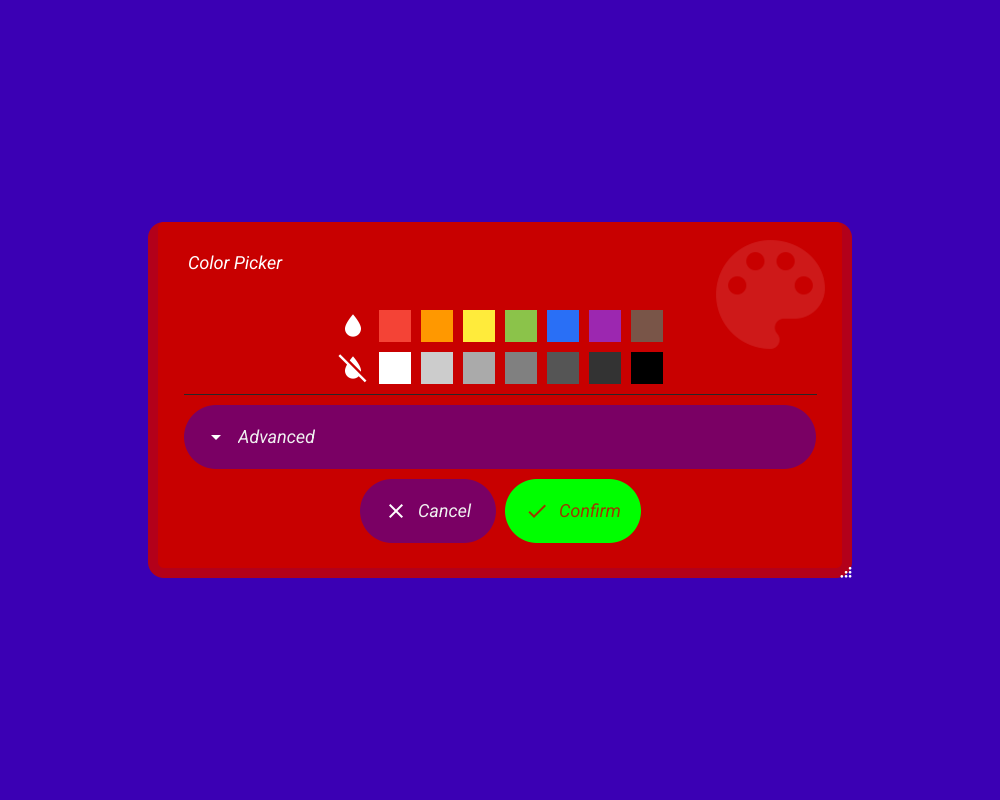
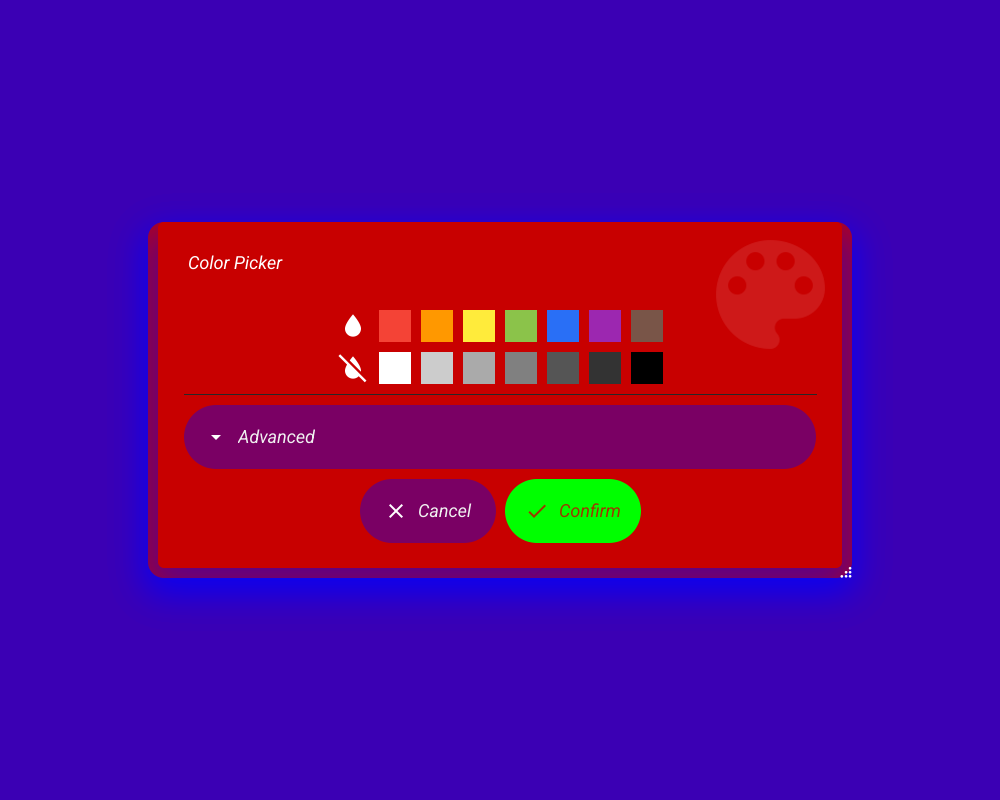
software painter: draw canvas.BoxShadow (#876)
The software painter had no case for BoxShadow, so every headless
capture, test image and --render output dropped it. An elevated Card
whose surface matched the page had no visible edge. Player's demo at
800x600 was 478,717 of 480,000 pixels page colour.

drawBoxShadow follows the GPU painters' geometry. It pads the shadow's
rounded rect by twice the blur radius, draws its coverage with the
existing rectangle code, and blurs it by a Gaussian of
painter.BlurSigma(BlurRadius). The GPU blur's 9-tap kernel approximates
that Gaussian; this computes it exactly (separable, cut at 3 sigma). The
result is drawn in the shadow colour. No blur draws nothing, as on the
GPU.

TestPainter_paintBoxShadow pins it to the closed form: across a straight
edge it is the normal CDF of distance over sigma, within 3/255 at every
pixel. With the case removed, the drawing tests fail.

The images of tests that show a shadow change to include it: 18 desktop
and 11 mobile (dialogs, menus, pop-ups, select, the Shadow widget). Every
changed pixel lies within the shadowed widget's box. The default theme
changes by at most 25/255, the test 'ugly' theme's coloured shadow by up
to 112.

BoxShadow's doc said the software painter drew a translucent rectangle
instead. It drew nothing. The doc now says what each painter does.

Changed region(s): [[0.124, 0.2812, 0.868, 0.75]]

diff --git a/internal/painter/software/draw_shadow.go b/internal/painter/software/draw_shadow.go
@@ -1,0 +1,114 @@
+package software
+
+import (
+	"image"
+	"image/color"
+	"math"
+
+	"golang.org/x/image/draw"
+
+	"github.com/belluikit/bellui/canvas"
+	"github.com/belluikit/bellui/core"
+	"github.com/belluikit/bellui/geo"
+	"github.com/belluikit/bellui/internal/painter"
+	"github.com/belluikit/bellui/internal/scale"
+)
+
+// drawBoxShadow draws a canvas.BoxShadow as the GPU painters do: the shadow's
+// rounded rect, padded by twice the blur radius on each side, blurred by a
+// Gaussian of sigma painter.BlurSigma(BlurRadius), in the shadow colour. The
+// GPU painters approximate that Gaussian with a 9-tap kernel; this computes it
+// exactly. A shadow with no blur draws nothing, as there.
+//
+// Without it a headless render dropped every shadow, so an elevated Card whose
+// surface matched the page had no visible edge at all (#876).
+func drawBoxShadow(c core.Canvas, shadow *canvas.BoxShadow, pos geo.Position, base *image.NRGBA, clip image.Rectangle) {
+	if shadow.BlurRadius <= 0 || shadow.Color == nil {
+		return
+	}
+	spread := shadow.BlurRadius * 2 // as the GPU painters and PaintExtent pad it
+	size := shadow.Size()
+	x := scale.ToScreenCoordinate(c, pos.X+shadow.OffsetX-spread)
+	y := scale.ToScreenCoordinate(c, pos.Y+shadow.OffsetY-spread)
+	w := scale.ToScreenCoordinate(c, size.Width+spread*2)
+	h := scale.ToScreenCoordinate(c, size.Height+spread*2)
+	out := clip.Intersect(image.Rect(x, y, x+w, y+h))
+	if w <= 0 || h <= 0 || out.Empty() {
+		return
+	}
+
+	// The shape's coverage, antialiased as any rectangle is.
+	shape := image.NewNRGBA(image.Rect(0, 0, w, h))
+	rect := &canvas.Rectangle{FillColor: color.White, CornerRadius: shadow.CornerRadius}
+	rect.Resize(size)
+	drawRectangle(c, rect, geo.NewPos(spread, spread), shape, shape.Bounds())
+	cover := make([]float32, w*h)
+	for i := range cover {
+		cover[i] = float32(shape.Pix[i*4+3]) / 0xff
+	}
+
+	sigma := float64(painter.BlurSigma(shadow.BlurRadius) * c.Scale())
+	gaussianBlur(cover, w, h, sigma)
+
+	r, g, b, a := shadow.Color.RGBA()
+	if a == 0 {
+		return
+	}
+	// RGBA is premultiplied; the image is not.
+	nr, ng, nb := uint8(r*0xffff/a>>8), uint8(g*0xffff/a>>8), uint8(b*0xffff/a>>8)
+	alpha := float32(a) / 0xffff
+	img := image.NewNRGBA(image.Rect(0, 0, w, h))
+	for i, v := range cover {
+		if v <= 0 {
+			continue
+		}
+		p := img.Pix[i*4 : i*4+4 : i*4+4]
+		p[0], p[1], p[2] = nr, ng, nb
+		p[3] = uint8(min(v*alpha, 1)*0xff + 0.5)
+	}
+	draw.Draw(base, out, img, out.Min.Sub(image.Pt(x, y)), draw.Over)
+}
+
+// gaussianBlur blurs a w×h plane in place by a Gaussian of sigma pixels: once
+// along each axis, with the kernel cut at 3 sigma and renormalised, and the
+// plane taken as zero outside its bounds.
+func gaussianBlur(plane []float32, w, h int, sigma float64) {
+	if sigma <= 0 {
+		return
+	}
+	radius := int(math.Ceil(3 * sigma))
+	kernel := make([]float32, 2*radius+1)
+	var sum float64
+	for i := range kernel {
+		d := float64(i - radius)
+		v := math.Exp(-d * d / (2 * sigma * sigma))
+		kernel[i] = float32(v)
+		sum += v
+	}
+	for i := range kernel {
+		kernel[i] /= float32(sum)
+	}
+
+	tmp := make([]float32, max(w, h))
+	blurLine := func(get func(int) float32, set func(int, float32), n int) {
+		for i := 0; i < n; i++ {
+			var acc float32
+			for k, kv := range kernel {
+				if j := i + k - radius; j >= 0 && j < n {
+					acc += get(j) * kv
+				}
+			}
+			tmp[i] = acc
+		}
+		for i := 0; i < n; i++ {
+			set(i, tmp[i])
+		}
+	}
+	for row := 0; row < h; row++ {
+		line := plane[row*w : row*w+w]
+		blurLine(func(i int) float32 { return line[i] }, func(i int, v float32) { line[i] = v }, w)
+	}
+	for col := 0; col < w; col++ {
+		blurLine(func(i int) float32 { return plane[i*w+col] }, func(i int, v float32) { plane[i*w+col] = v }, h)
+	}
+}

diff --git a/internal/painter/software/draw_shadow_test.go b/internal/painter/software/draw_shadow_test.go
@@ -1,0 +1,88 @@
+package software_test
+
+import (
+	"image"
+	"image/color"
+	"math"
+	"testing"
+
+	"github.com/belluikit/bellui/canvas"
+	"github.com/belluikit/bellui/container"
+	"github.com/belluikit/bellui/geo"
+	"github.com/belluikit/bellui/internal/painter/software"
+	"github.com/belluikit/bellui/test"
+)
+
+// paintShadow paints s alone on a transparent 300×200 canvas.
+func paintShadow(t *testing.T, s *canvas.BoxShadow) image.Image {
+	t.Helper()
+	c := test.NewTransparentCanvasWithPainter(software.NewPainter())
+	c.SetPadded(false)
+	c.SetContent(container.NewWithoutLayout(s))
+	c.Resize(geo.NewSize(300, 200))
+	return c.Capture()
+}
+
+func alphaAt(img image.Image, x, y int) float64 {
+	return float64(color.NRGBAModel.Convert(img.At(x, y)).(color.NRGBA).A) / 0xff
+}
+
+// TestPainter_paintBoxShadow pins #876: the software painter drew no
+// canvas.BoxShadow at all. Across a straight edge far from the others, a shape
+// blurred by a Gaussian of sigma s is the normal CDF of the distance over s,
+// which is what the GPU painters' 9-tap kernel approximates (#442).
+func TestPainter_paintBoxShadow(t *testing.T) {
+	s := canvas.NewBoxShadow(color.Black, 8) // sigma 4
+	s.Move(geo.NewPos(100, 50))
+	s.Resize(geo.NewSize(100, 100))
+	img := paintShadow(t, s)
+
+	const sigma = 4.0
+	for x := 80; x <= 120; x++ {
+		d := float64(x) + 0.5 - 100 // pixel centre to the left edge
+		want := 0.5 * math.Erfc(-d/(sigma*math.Sqrt2))
+		if got := alphaAt(img, x, 100); math.Abs(got-want) > 3.0/255 {
+			t.Errorf("alpha at x=%d, %.1f px from the edge: %.3f; want %.3f", x, d, got, want)
+		}
+	}
+	if a := alphaAt(img, 150, 100); a < 0.99 {
+		t.Errorf("alpha %.3f under the middle of the shadow; want it solid", a)
+	}
+	// Past the padding (twice the blur radius) nothing is drawn.
+	if a := alphaAt(img, 100-17, 100); a != 0 {
+		t.Errorf("alpha %.3f outside the shadow's padded box; want none", a)
+	}
+}
+
+// TestPainter_paintBoxShadowOffsetAndColor: the offset moves the shadow, and a
+// translucent colour keeps its hue and scales the alpha.
+func TestPainter_paintBoxShadowOffsetAndColor(t *testing.T) {
+	s := canvas.NewBoxShadow(color.NRGBA{R: 0x20, G: 0x40, B: 0x80, A: 0x80}, 4)
+	s.Move(geo.NewPos(100, 50))
+	s.Resize(geo.NewSize(100, 100))
+	s.OffsetX, s.OffsetY = 10, 6
+	img := paintShadow(t, s)
+
+	mid := color.NRGBAModel.Convert(img.At(160, 106)).(color.NRGBA)
+	if mid.R != 0x20 || mid.G != 0x40 || mid.B != 0x80 || mid.A < 0x7e || mid.A > 0x81 {
+		t.Errorf("middle of the shadow is %v; want the colour at its own alpha", mid)
+	}
+	// The left edge has moved to x=110: half coverage there, none to its left.
+	if a := alphaAt(img, 109, 106) + alphaAt(img, 110, 106); math.Abs(a/2-0.25) > 0.03 {
+		t.Errorf("alpha across x=110 averages %.3f; want the edge's half of 0.5", a/2)
+	}
+	if a := alphaAt(img, 100, 106); a > 0.05 {
+		t.Errorf("alpha %.3f at the unshifted edge; want the shadow moved off it", a)
+	}
+}
+
+// TestPainter_paintBoxShadowNoBlur: as on the GPU painters, a shadow with no
+// blur draws nothing.
+func TestPainter_paintBoxShadowNoBlur(t *testing.T) {
+	s := canvas.NewBoxShadow(color.Black, 0)
+	s.Move(geo.NewPos(100, 50))
+	s.Resize(geo.NewSize(100, 100))
+	if a := alphaAt(paintShadow(t, s), 150, 100); a != 0 {
+		t.Errorf("alpha %.3f from a shadow with no blur; want nothing drawn", a)
+	}
+}

diff --git a/canvas/box_shadow.go b/canvas/box_shadow.go
@@ -6,10 +6,13 @@ import (
 	"github.com/belluikit/bellui/geo"
 )
 
-// BoxShadow is a canvas object that renders a blurred shadow behind a widget.
-// When the GL painter supports FBO blur, this produces a soft Gaussian-blurred
-// shadow. On software painters or when FBO is unavailable, it falls back to a
-// solid colored rectangle with reduced opacity.
+// BoxShadow is a canvas object that renders a blurred shadow behind a widget:
+// its rounded rect, in Color, blurred by a Gaussian. The GPU painters
+// approximate the Gaussian with a 9-tap blur; the software painter, which
+// draws headless captures and test images, computes it exactly, within a few
+// levels of the GPU result (hack/shadowprobe). The GL painter draws nothing on
+// a target without framebuffers (wasm), and no painter draws a shadow whose
+// BlurRadius is 0.
 type BoxShadow struct {
 	baseObject
 

diff --git a/internal/painter/software/painter.go b/internal/painter/software/painter.go
@@ -74,6 +74,8 @@ func (*Painter) Paint(c core.Canvas) image.Image {
 		}
 
 		switch o := obj.(type) {
+		case *canvas.BoxShadow:
+			drawBoxShadow(c, o, pos, base, clip)
 		case *canvas.Image:
 			drawImage(c, o, pos, base, clip)
 		case *canvas.Text:

diff --git a/changelog.d/876.fixed.md b/changelog.d/876.fixed.md
@@ -1,0 +1,10 @@
+* **Headless renders draw box shadows**
+  ([#876](https://github.com/belluikit/bellui/issues/876)). The software
+  painter, which draws `Canvas.Capture` without a window, test images and
+  `--render` output, dropped every `canvas.BoxShadow`. An elevated `Card`,
+  menu, pop-up or dialog had no shadow there, so a card the colour of the page
+  had no visible edge. It now draws the shadow as the GPU painters do: the
+  same rounded rect, padding and offset, blurred by the exact Gaussian their
+  9-tap blur approximates. Measured against the window's own WebGPU and GL
+  painters at scales 1 and 2, no pixel differs by more than 9 of 255. Test
+  images with shadows changed to match: 18 desktop and 11 mobile.
